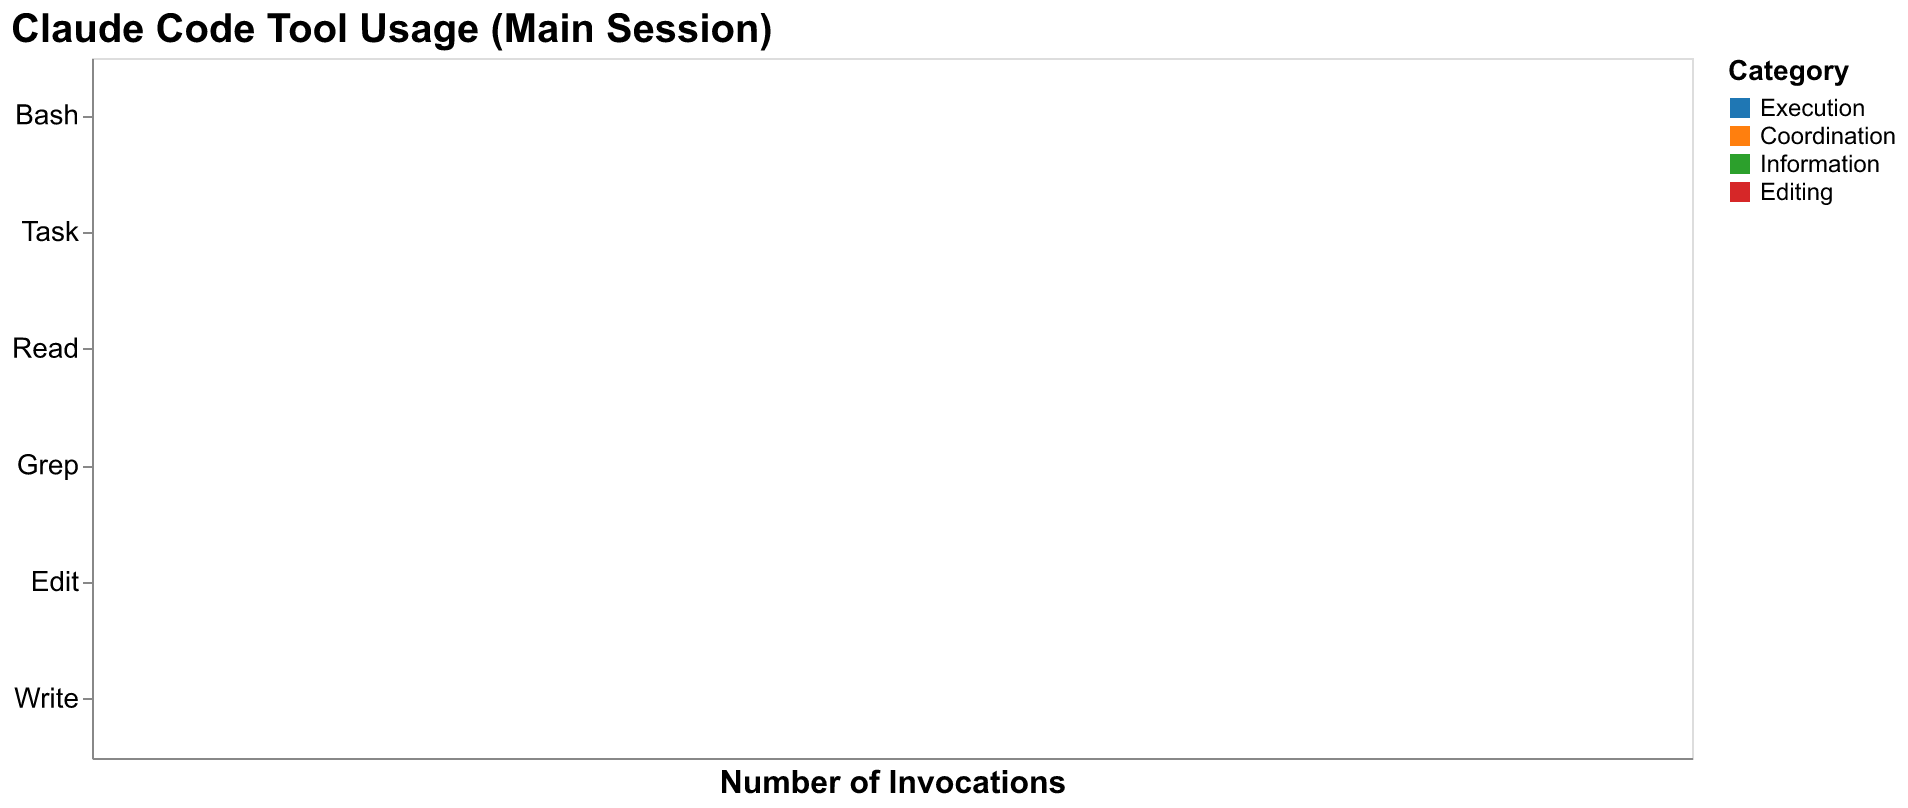
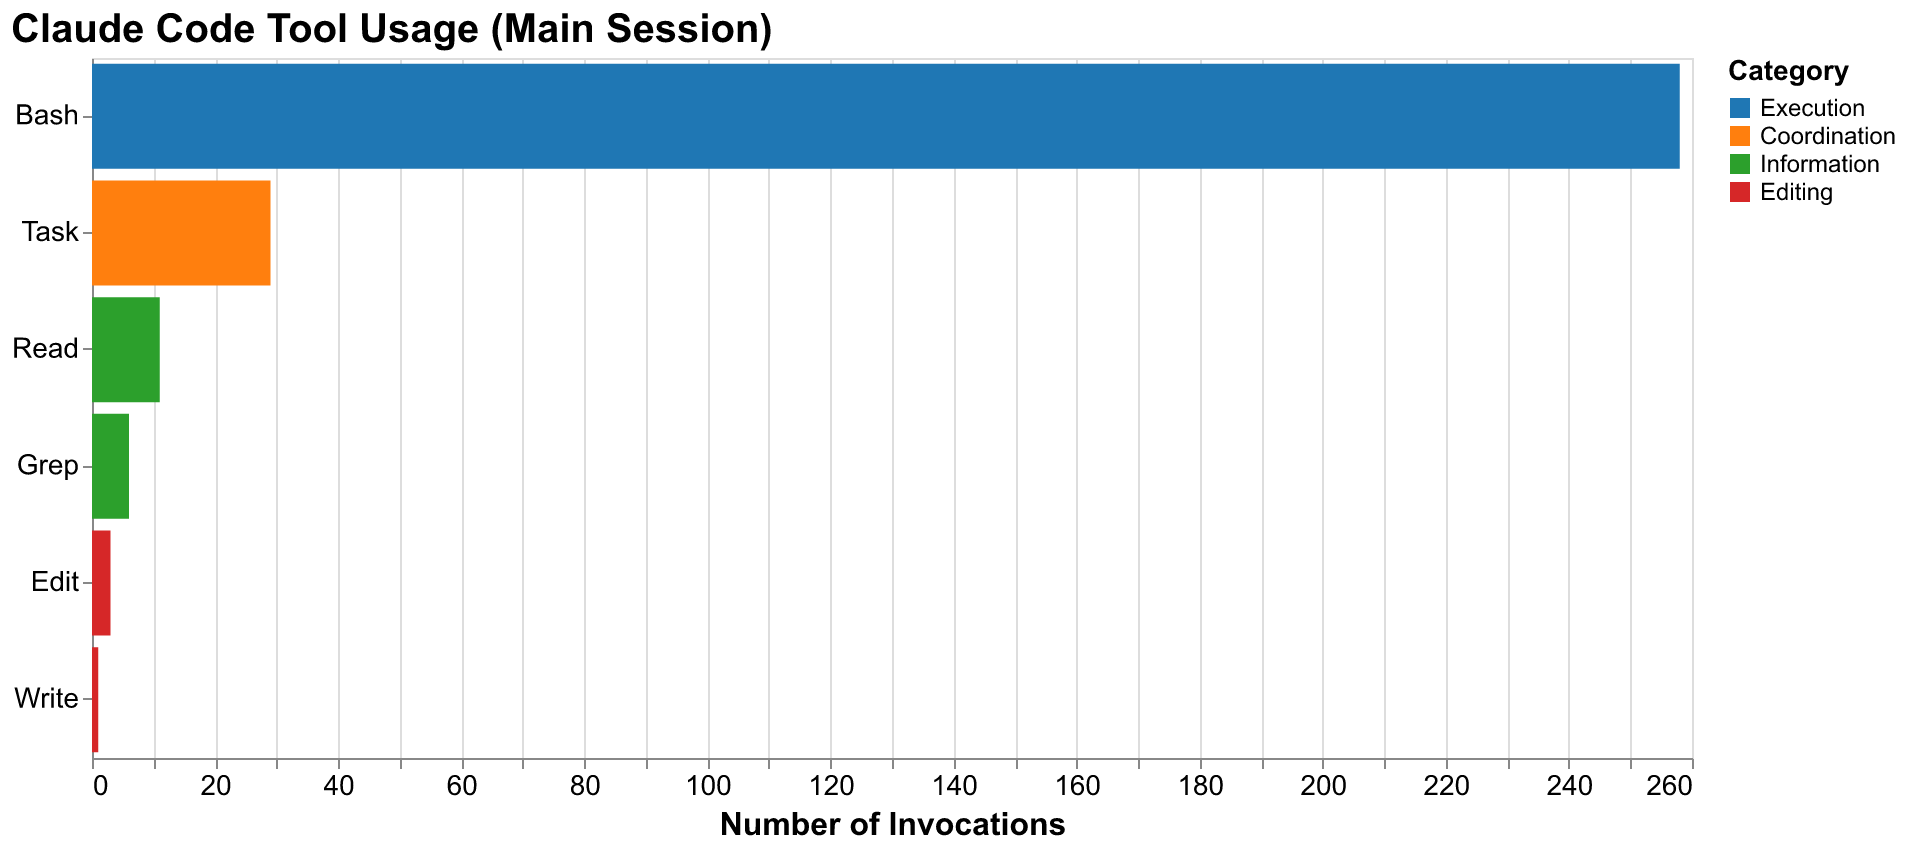
Fix tool usage chart invisible bars by removing log scale
The log scale caused rendering issues because log(1) = 0, making
the "Write" tool bar (count=1) invisible. Using linear scale
ensures all tool usage bars display correctly.

Closes #81

Changed region(s): [[0.0, 0.0309, 1.0, 0.9901], [0.8658, 0.8973, 0.8968, 0.9592]]

diff --git a/scripts/generate_essay_068_charts.py b/scripts/generate_essay_068_charts.py
@@ -124,7 +124,7 @@ df_tools = pd.DataFrame(tool_data)
 
 print("Generating tool usage chart...")
 chart4 = alt.Chart(df_tools).mark_bar().encode(
-    x=alt.X('count:Q', title='Number of Invocations', scale=alt.Scale(type='log')),
+    x=alt.X('count:Q', title='Number of Invocations', scale=alt.Scale()),
     y=alt.Y('tool:N', title=None, sort='-x'),
     color=alt.Color('category:N', title='Category',
                    scale=alt.Scale(domain=['Execution', 'Coordination', 'Information', 'Editing'],
